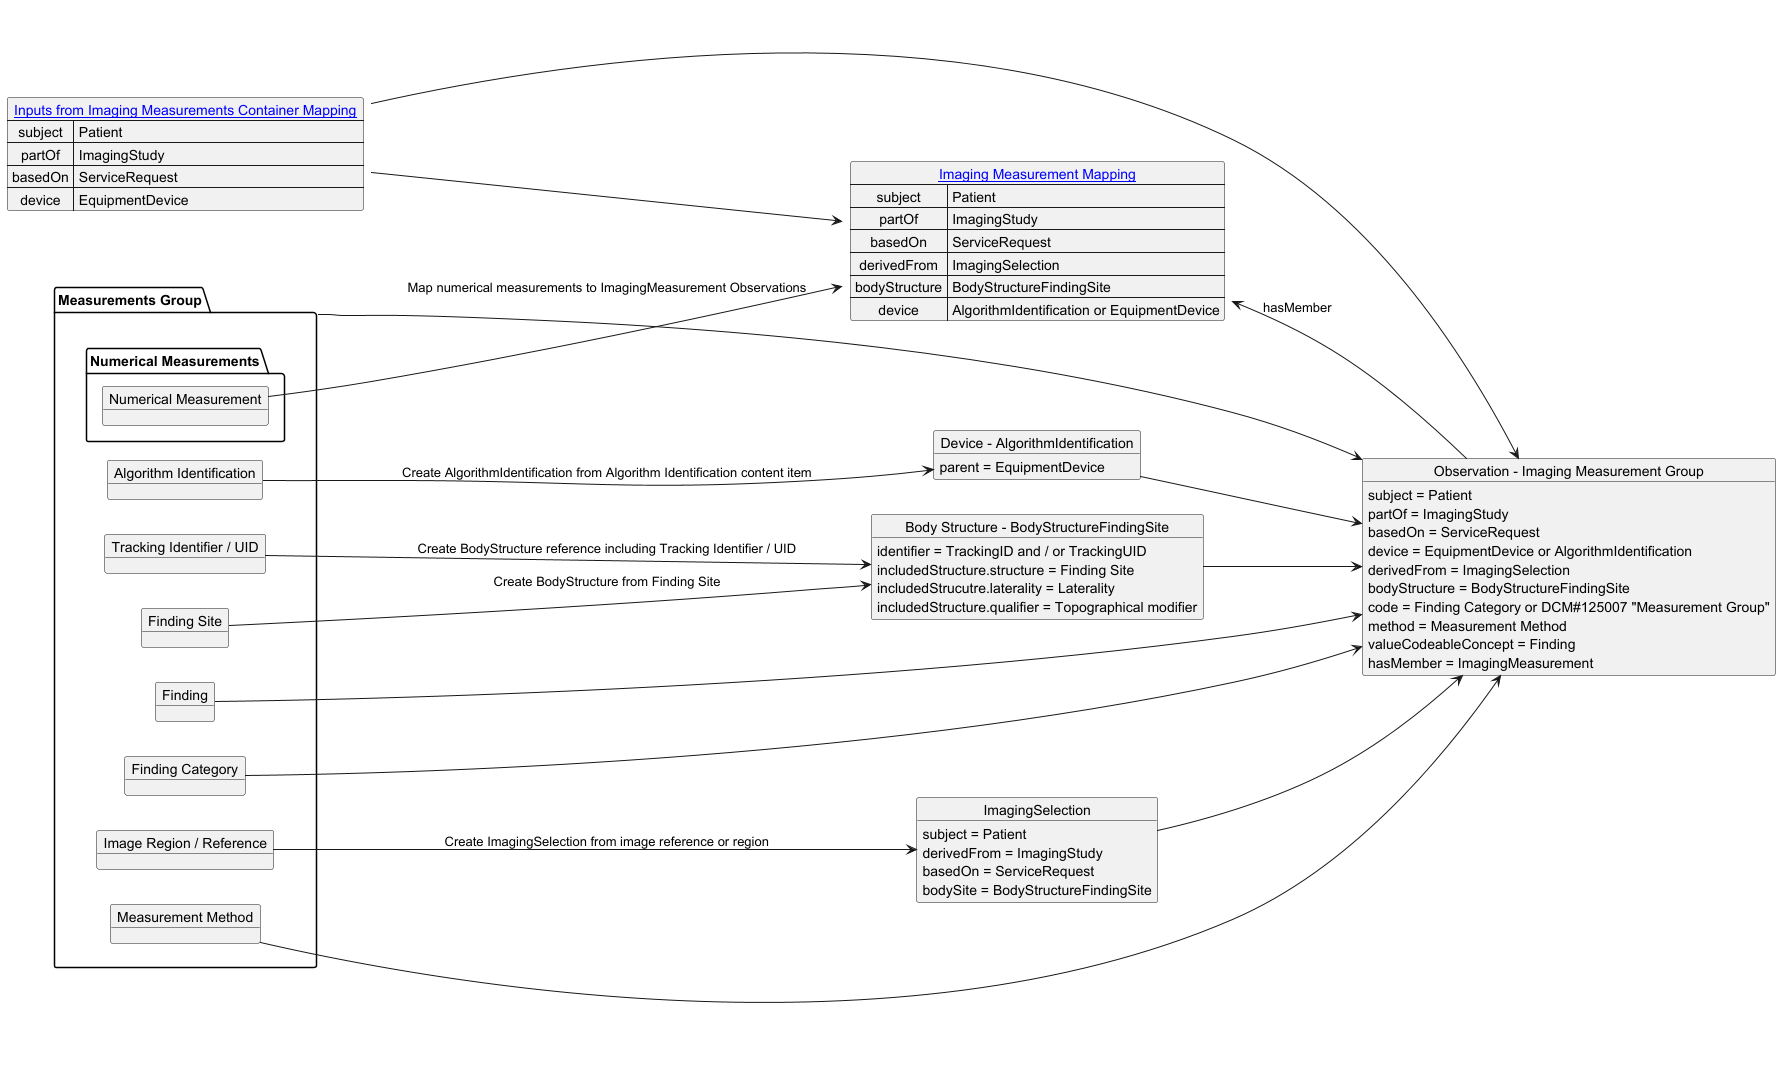
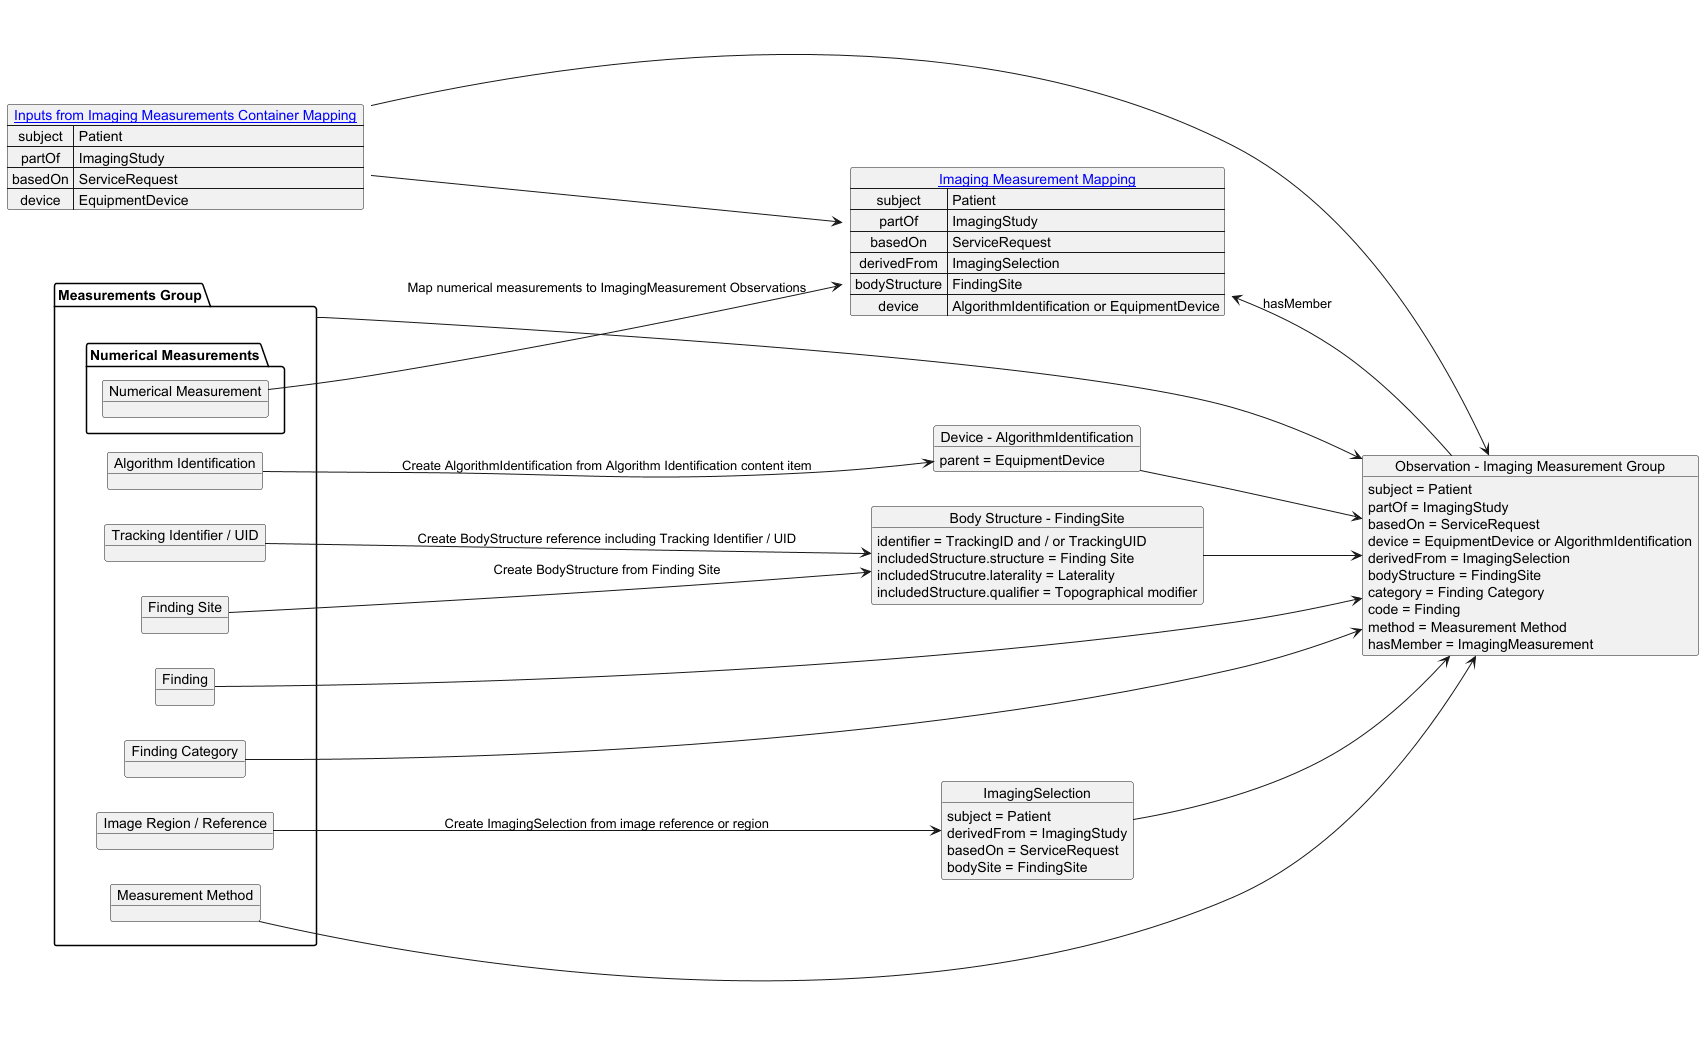
* FHIR-47460   * Update ImagingMeasurementGroup mapping and profile as follows     * Finding Category maps to .category     * Finding (code) maps to .code     * ValueCodeableConcept no longer present as per grouping pattern

diff --git a/input/pagecontent/example.md b/input/pagecontent/example.md
@@ -481,44 +481,6 @@ See [Example Device](Device-measurement-report-general-equipment.html).
             } ] }
       },
       {
-        "00081199": { "vr": "SQ", "Value": [ {
-              "00081150": { "vr": "UI", "Value": [ "1.2.840.10008.5.1.4.1.1.66.4" ] },
-              "00081155": { "vr": "UI", "Value": [ "1.2.276.0.7230010.3.1.4.0.57823.1553343864.578878" ] },
-              "0062000B": { "vr": "US", "Value": [ 1 ] }
-            } ] },
-        "0040A010": { "vr": "CS", "Value": [ "CONTAINS" ] },
-        "0040A040": { "vr": "CS", "Value": [ "IMAGE" ] },
-        "0040A043": { "vr": "SQ", "Value": [ {
-              "00080100": { "vr": "SH", "Value": [ "121191" ] },
-              "00080102": { "vr": "SH", "Value": [ "DCM" ] },
-              "00080104": { "vr": "LO", "Value": [ "Referenced Segment" ] }
-            } ] }
-      },
-      {
-        "0040A010": { "vr": "CS", "Value": [ "CONTAINS" ] },
-        "0040A040": { "vr": "CS", "Value": [ "UIDREF" ] },
-        "0040A043": { "vr": "SQ", "Value": [ {
-              "00080100": { "vr": "SH", "Value": [ "121232" ] },
-              "00080102": { "vr": "SH", "Value": [ "DCM" ] },
-              "00080104": { "vr": "LO", "Value": [ "Source series for segmentation" ] }
-            } ] },
-        "0040A124": { "vr": "UI", "Value": [ "1.3.6.1.4.1.14519.5.2.1.6279.6001.273525289046256012743471155680" ] }
-      },
-      {
-        "0040A010": { "vr": "CS", "Value": [ "HAS CONCEPT MOD" ] },
-        "0040A040": { "vr": "CS", "Value": [ "CODE" ] },
-        "0040A043": { "vr": "SQ", "Value": [ {
-              "00080100": { "vr": "SH", "Value": [ "363698007" ] },
-              "00080102": { "vr": "SH", "Value": [ "SCT" ] },
-              "00080104": { "vr": "LO", "Value": [ "Finding Site" ] }
-            } ] },
-        "0040A168": { "vr": "SQ", "Value": [ {
-              "00080100": { "vr": "SH", "Value": [ "39607008" ] },
-              "00080102": { "vr": "SH", "Value": [ "SCT" ] },
-              "00080104": { "vr": "LO", "Value": [ "Lung" ] }
-            } ] }
-      },
-      {
         "0040A010": { "vr": "CS", "Value": [ "CONTAINS" ] },
         "0040A040": { "vr": "CS", "Value": [ "NUM" ] },
         ...
@@ -657,6 +619,12 @@ See [Example Device](Device-measurement-report-general-equipment.html).
         "code" : "125007",
         "display" : "Measurement Group"
         }]
+      },
+      { "coding" : [{
+        "system" : "http://snomed.info/sct",
+        "code" : "241053004",
+        "display" : "Radiographic measurement of lung volume"
+        }]
       }],
       "derivedFrom": [
         {
@@ -668,13 +636,6 @@ See [Example Device](Device-measurement-report-general-equipment.html).
       },
      "device": {
         "reference": "Device/measurement-report-general-equipment"
-      },
-      "valueCodeableConcept": {
-        "coding": [{
-            "system": "http://snomed.info/sct",
-            "code": "427359005",
-            "display": "Solitary nodule of lung"
-          }]
       },
       "hasMember": [
         {
@@ -705,14 +666,14 @@ For each Measurement Group:
 1. Create BodyStructure resource for tracking and finding site (if not already existing)
 2. Create ImagingSelection resource for segment (if not already existing)
 3. Create Observation resource for ImagingMeasurementGroup
-   1. Set `code` to value of Finding Category
-   2. Set `derivedFrom` to reference ImagingSelection resource
-   3. Set `bodyStructure` to reference finding site BodyStructure resource
-   4. Set `hasMember` to reference Observation resources for imaging measurements and qualitative evaluations\
+   1. Set `category` to the value of Finding Category
+   2. Set `code` to the value of Finding
+   3. Set `derivedFrom` to reference ImagingSelection resource
+   4. Set `bodyStructure` to reference finding site BodyStructure resource
+   5. Set `hasMember` to reference Observation resources for imaging measurements and qualitative evaluations\
       *Note: Not yet created*
-   5. Set `device` to reference general equipment Device resource\
+   6. Set `device` to reference general equipment Device resource\
       No Algorithm Identification is specified at the group level so the general equipment device is used
-   6. Set `valueCodeableConcept` to value of Finding
 
 See:
 - [Example Finding Site BodyStructure](BodyStructure-measurement-report-finding-site.html)
@@ -1000,3 +961,8 @@ See:
 
 ### Example Measurement Report
 See [Example Measurement Report](DiagnosticReport-dicom-sr-measurement-report.html) for a complete example of a Measurement Report containing the above resources.
+
+
+
+
+
